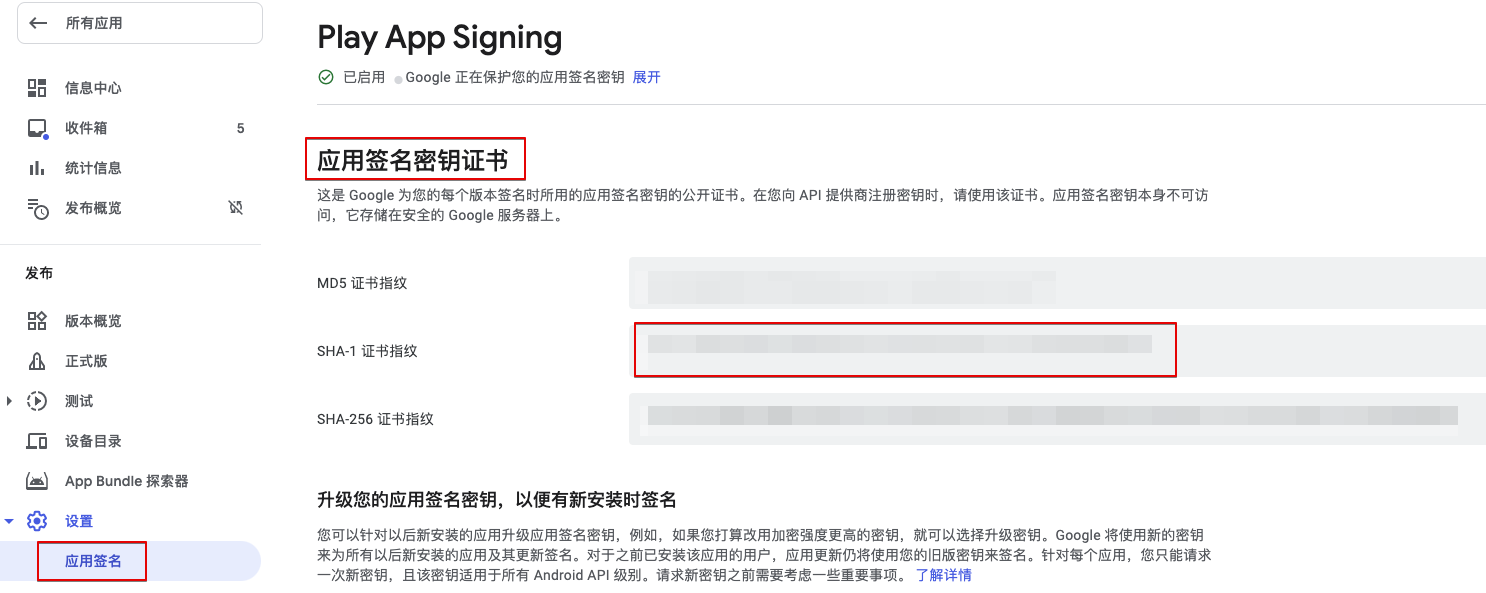
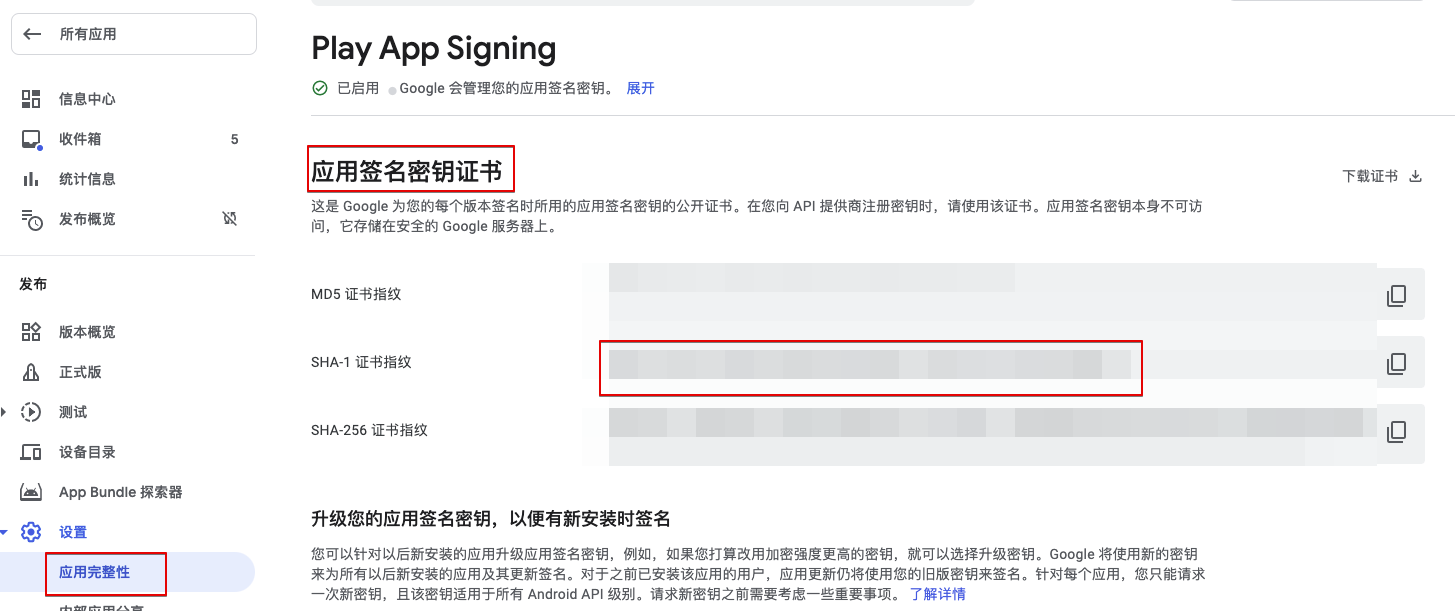
구글 앱서명 메뉴명 변경점 수정

diff --git a/jp/gamepot_faq.md b/jp/gamepot_faq.md
@@ -358,7 +358,7 @@ Xcode で build 時 Capability に Push Notification を含める必要があり
     ＃Q.直接インストールしたAPKは、ソーシャルログインが正常にされるが、ストアからダウンロードした後、ソーシャルログインすると、ログインされていません。
     ＃A.グーグル開発コンソールでアプリの署名が有効になってキーストアが変更された場合です。
 
-グーグルの開発者コンソールに`設定` - >`アプリの署名`メニューに以下のような画面が表示されます。
+グーグルの開発者コンソールに`設定` - >`アプリの完全性`メニューに以下のような画面が表示されます。
 
 ![gamepot_faq_33](./images/gamepot_faq_33.png)
 

diff --git a/en/gamepot_faq.md b/en/gamepot_faq.md
@@ -359,7 +359,7 @@ When building in Xcode, Capability must include Push Notification. If you cannot
     # Q. Social login is normal for APKs that you installed yourself, but if you log in after downloading from the store, you cannot log in.
     # A. This is when the keystore has been changed because app signing is enabled in the Google Developer Console.
 
-The following screen is displayed in the'Setup' ->'App Signing' menu in the Google Developer Console.
+The following screen is displayed in the'Setup' ->'App integrity' menu in the Google Developer Console.
 
 ![gamepot_faq_33](./images/gamepot_faq_33.png)
 

diff --git a/cn/gamepot_faq.md b/cn/gamepot_faq.md
@@ -366,7 +366,7 @@ iOS中，应用为Forground状态时无法接收推送。
     # Q. 直接安装的APK可以正常进行社交登录，但在商店中下载后再进行社交登录时却无法登录。
     # A. 这种情况是在Google Developer Console中应用签名被激活、Keystore更改造导致。
 
-Google Developer Console中`设置` -> `应用签名`菜单中将显示以下画面。
+Google Developer Console中`设置` -> `应用完整性`菜单中将显示以下画面。
 
 ![gamepot_faq_33](./images/gamepot_faq_33.png)
 
